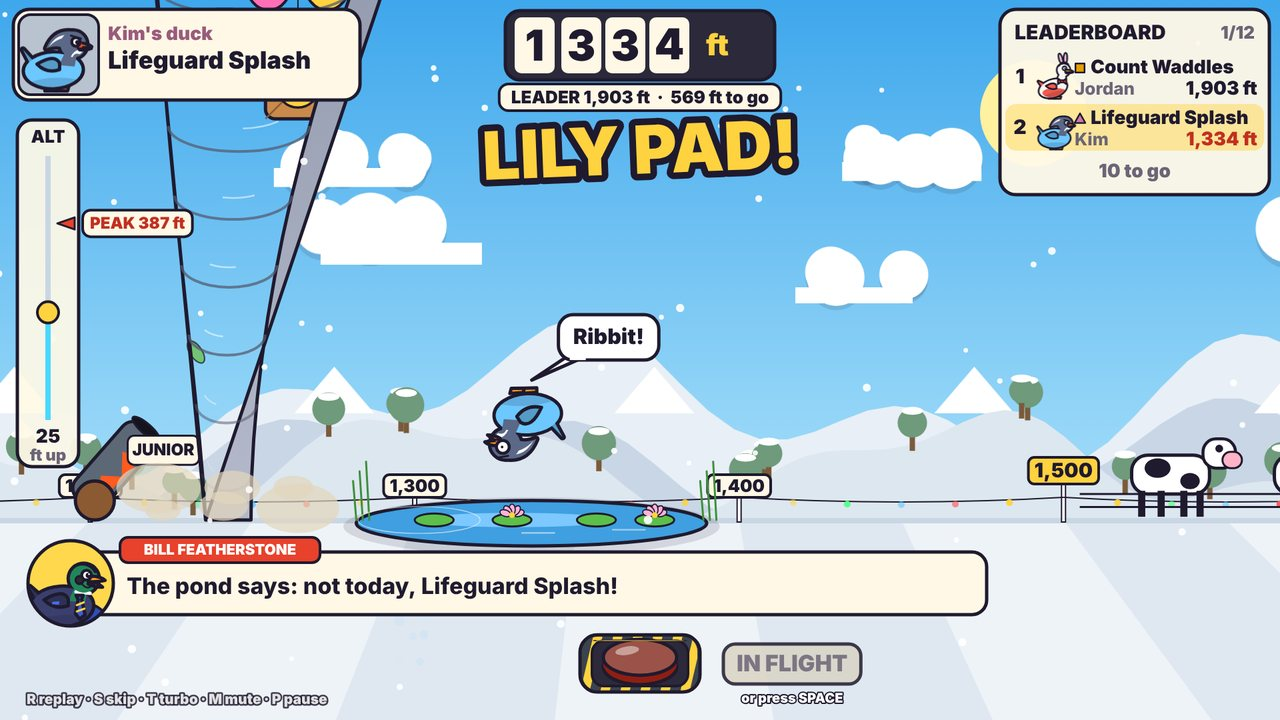
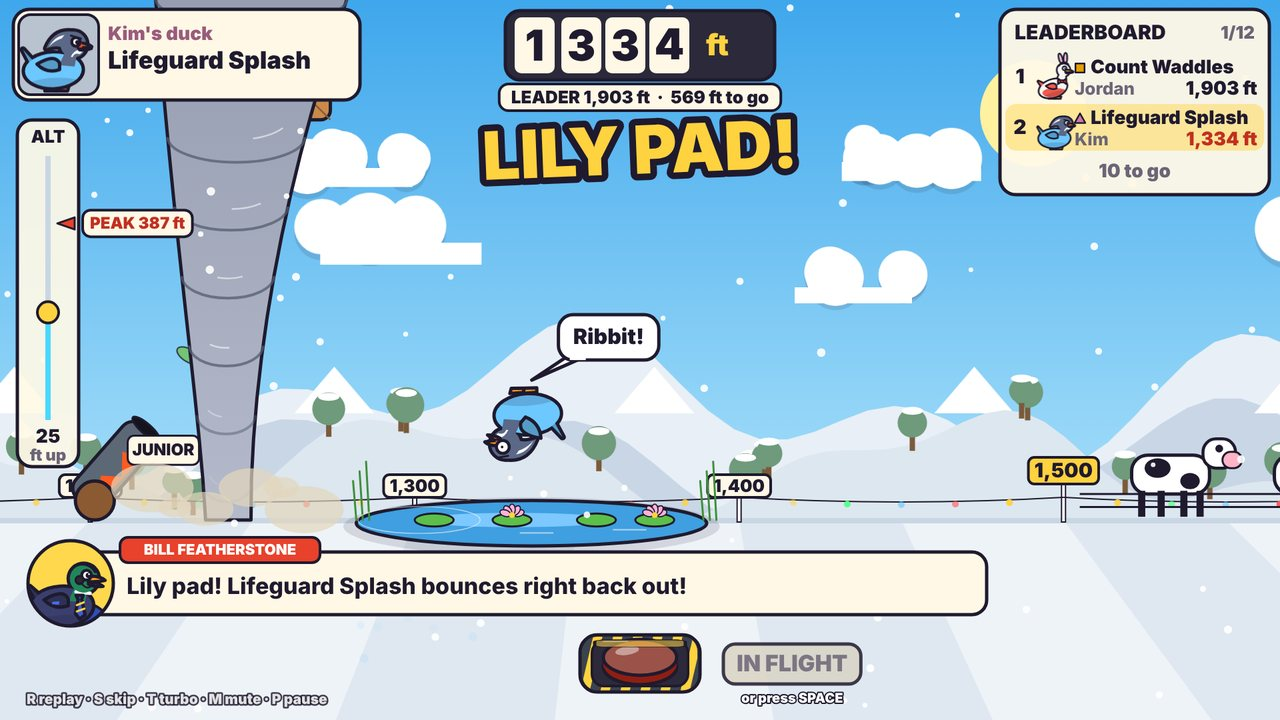
Review fixes: trampoline springs, gentler background course build
- Trampoline springs follow the mat's real sag, so they stay attached
  during a bounce.
- The background test flights run one flight per step in 4 ms slices
  with gaps, so the title screen keeps its frame rate on slow machines.
- A course job that fails is dropped instead of being mistaken for a
  finished one.
- README: instant start, tornado outcome call, refreshed screenshot.

Claude-Session: https://claude.ai/code/session_01L5ntNDsEwxRWUo6xWcqN4w

diff --git a/index.html b/index.html
@@ -1082,7 +1082,7 @@ function generateCourse(dayKey, cond, lazy) {
   const key = dayKey + JSON.stringify([cond.wind, cond.sky, cond.mod, cond.season, cond.friday]);
   let ent = COURSES.get(key);
   if (!ent) { if (COURSES.size > 500) COURSES.clear(); const course = buildCourse(dayKey, cond); ent = { course, job: balanceSteps(course, cond) }; COURSES.set(key, ent); }
-  if (ent.job && !lazy) { while (!ent.job.next().done); ent.job = null; }
+  if (ent.job && !lazy) { try { while (!ent.job.next().done); } catch (e) { COURSES.delete(key); throw e; } ent.job = null; }   // a failed job is never mistaken for a finished one
   const out = { dayKey: ent.course.dayKey, pieces: ent.course.pieces.map(p => Object.assign({}, p, { data: Object.assign({}, p.data) })) };
   if (ent.job) out.rough = true;
   return out;
@@ -1091,7 +1091,7 @@ function generateCourse(dayKey, cond, lazy) {
 function courseWork(ms) {
   const t0 = performance.now();
   for (const ent of COURSES.values()) {
-    while (ent.job && performance.now() - t0 < ms) if (ent.job.next().done) ent.job = null;
+    try { while (ent.job && performance.now() - t0 < ms) if (ent.job.next().done) ent.job = null; } catch (e) { COURSES.clear(); throw e; }
     if (ent.job) return true;
   }
   return false;
@@ -1163,14 +1163,13 @@ function buildCourse(dayKey, cond) {
    pieces of one kind together at most a third as much again. A pond that stops too many gets a little smaller and grows
    lily pads: some of the ducks that come down in it bounce off one and hop back out. */
 const COURSE_CAP = { obstacle: 0.09, bench: 0.075, wildcard: 0.125, boost: 0.14, walkway: 0.125, stormcloud: 0.125 };
-function balanceCourse(course, cond) { const job = balanceSteps(course, cond); while (!job.next().done); }
-function* balanceSteps(course, cond) {   // a generator, so the work can be done in slices: it yields every few flights
+function* balanceSteps(course, cond) {   // a generator, so the work can be done in slices: it yields after every flight
   const capOf = pc => COURSE_CAP[pc.type] || COURSE_CAP[pc.type === 'pond' ? 'obstacle' : C.EVENTS[pc.ev].kind] || 0.125;
   // a rough cut first (the big offenders), then a finer look at the course as it now stands
   for (let pass = 0; pass < 2; pass++) {
     const got = {}, N = pass ? 160 : 80;
     for (let i = 0; i < N; i++) {
-      if (i % 4 === 3) yield;
+      if (i) yield;
       const tl = SIM.simulate(hash('testfly', course.dayKey, pass, i), cond, course, null, { record: false, probe: true });
       // a piece the duck reached counts by its odds of being live, whether or not it was this time (far less noise
       // than counting hits). A pond counts every duck that came down in it to stay (swam, or was bounced out by a
@@ -2570,7 +2569,7 @@ ART.piece = {
     ctx.beginPath(); ctx.moveTo(0, -8); ctx.quadraticCurveTo(w / 2, -8 + sq * 2, w, -8); ctx.lineTo(w, -11); ctx.quadraticCurveTo(w / 2, -11 + sq * 2, 0, -11); ctx.closePath(); fillStroke(ctx, '#3f8fd9', L);
     ctx.beginPath(); ctx.moveTo(6, -9.6); ctx.quadraticCurveTo(w / 2, -9.6 + sq * 2, w - 6, -9.6); ctx.lineWidth = L * 0.45; ctx.strokeStyle = 'rgba(255,255,255,0.65)'; ctx.stroke();   // stripe on the mat
     ctx.lineWidth = L * 0.45; ctx.strokeStyle = '#5d6876';
-    for (let k = 1; k <= 3; k++) { const x = w * k / 4, top = -8 + sq * 2 * (1 - Math.abs(k - 2) * 0.45); ctx.beginPath(); ctx.moveTo(x, top); for (let j = 1; j <= 4; j++) ctx.lineTo(x + (j % 2 ? 1.6 : -1.6), top + (0 - top) * j / 4.5); ctx.lineTo(x, 0); ctx.stroke(); }   // springs
+    for (let k = 1; k <= 3; k++) { const x = w * k / 4, top = -8 + sq * 4 * (k / 4) * (1 - k / 4); ctx.beginPath(); ctx.moveTo(x, top); for (let j = 1; j <= 4; j++) ctx.lineTo(x + (j % 2 ? 1.6 : -1.6), top + (0 - top) * j / 4.5); ctx.lineTo(x, 0); ctx.stroke(); }   // springs, each topped at the mat's own sag so they stay attached
     rr(ctx, -2, -12, 6, 5, 2); fillStroke(ctx, '#e8412c', L * 0.8); rr(ctx, w - 4, -12, 6, 5, 2); fillStroke(ctx, '#e8412c', L * 0.8);
   },
   castle(ctx, pc, V, st) {
@@ -3762,7 +3761,9 @@ function pumpCourse() {
   if (coursePump) return;
   coursePump = true;
   const slice = () => {
-    if (courseWork(5)) { setTimeout(slice, 0); return; }
+    let more = false;
+    try { more = courseWork(4); } catch (e) { coursePump = false; throw e; }
+    if (more) { setTimeout(slice, 6); return; }   // short slices with gaps: the title screen keeps its frame rate
     coursePump = false;
     if (S.course && S.course.rough) S.course = generateCourse(S.course.dayKey, S.cond);   // swap in the finished course
   };

diff --git a/README.md b/README.md
@@ -86,7 +86,7 @@ Flights play close to real time. The launch always plays at exactly full speed, 
 
 - **Ducks:** seeded per player per day (local date + name), so a reload gives the same duck. There are 5 base types (mallard, classic rubber duck, fluffy duckling, white farm duck, Carolina duck), 16 colors, 6 patterns, 16 hats, 17 accessories and 8 eye styles. Rarities are Common 60%, Uncommon 25%, Rare 10%, Epic 4% and Legendary 1%. The six legendaries are Golden Duck, Disco Ball Duck, Robo-Duck, Ghost Duck, Pixel Duck and Definitely A Duck (a goose in a duck costume). Names mix templates with 96 handwritten one-offs and avoid names used on recent days. Every generated name, bio and caption goes through a blocklist, and any duck name containing a first name from the roster is rerolled. Looks never affect distance.
 - **Events:** 13 boosts, 12 obstacles (pond plop included), 7 wildcards and 9 gags. Each one is a data entry in `C.EVENTS` with its trigger, physics effect, art, sound and caption. Ground set pieces come from the day's course and trigger on a seeded chance per flight. Air events trigger by chance in their altitude band. Gags never change distance.
-- **No bottlenecks:** every day's course is test-flown 240 times before the show (the same test flights for everyone, seeded by the date). Anything that catches more than its share of the ducks is toned down until it does not: a dead stop such as the pond, the mud or the bread bench may catch about 1 duck in 11, a wildcard 1 in 8, a boost 1 in 7. A pond in a busy spot gets a little smaller and grows flowering lily pads, and some ducks that come down in it bounce off one and hop back out (**LILY PAD!**). A fast, flat arrival always skips across the water. The **tornado wanders** back and forth across about 400 ft, so every duck meets it somewhere else, and it is a real wildcard: about 3 ducks in 4 are flung onward, the rest back. Riders leave the moving walkway at their own pace instead of in a bunch.
+- **No bottlenecks:** every day's course is test-flown 240 times before the show (the same test flights for everyone, seeded by the date; it happens in the background while the title screen is up, so the page still opens instantly). Anything that catches more than its share of the ducks is toned down until it does not: a dead stop such as the pond, the mud or the bread bench may catch about 1 duck in 11, a wildcard 1 in 8, a boost 1 in 7. A pond in a busy spot gets a little smaller and grows flowering lily pads, and some ducks that come down in it bounce off one and hop back out (**LILY PAD!**). A fast, flat arrival always skips across the water. The **tornado wanders** back and forth across about 400 ft, so every duck meets it somewhere else, and it is a real wildcard: about 3 ducks in 4 are flung onward, the rest back, and a caption calls it as the duck comes out (**FLUNG ONWARD!** or **WRONG WAY!**). Riders leave the moving walkway at their own pace instead of in a bunch.
 - **Cannon moments:** misfire with a bonus-powder comeback (about 1.3%), backfire to a negative distance (about 1%) and the fake-out fizzle (about 2%, cosmetic only). Other flight touches are the hat that flies off and sometimes beats its duck, a photo finish in slow motion when a duck lands within 25 ft of the leader (with the margin called out), **personal bests**, and a drumroll for a last duck who can still win, which builds over the final seconds of the flight and ends right on the landing cymbal.
 - **Daily conditions:** wind (calm, tailwind or headwind, up to 20 mph), sky (sunny, overcast, drizzle, fog, sunset or night) and a modifier of the day on about half of days: Low Gravity, Bouncy Day, Goose Migration, Trampoline Park, Ice Rink (the field turns to ice and some ponds freeze over), Big Head Mode, Throwback Mode or Turbo Cannon. Fridays add Fri-Yay party mode. Seasonal themes come from the date: pumpkins and bats in October, falling leaves in autumn, a turkey in a duck disguise during Thanksgiving week, snow and twinkle lights from December to February, flowers and rain in spring, and a beach in summer. The course changes daily too.
 - **Commentary:** Bill Featherstone narrates in a lower-third caption bar (about 200 lines), and the ducks talk back in speech bubbles (about 115 lines). Lines are drawn from shuffled bags so nothing repeats within a show, and Bill always talks about what's happening now instead of falling behind. Commentary roasts the duck, never the player. An optional announcer voice uses the Web Speech API and is off by default.
